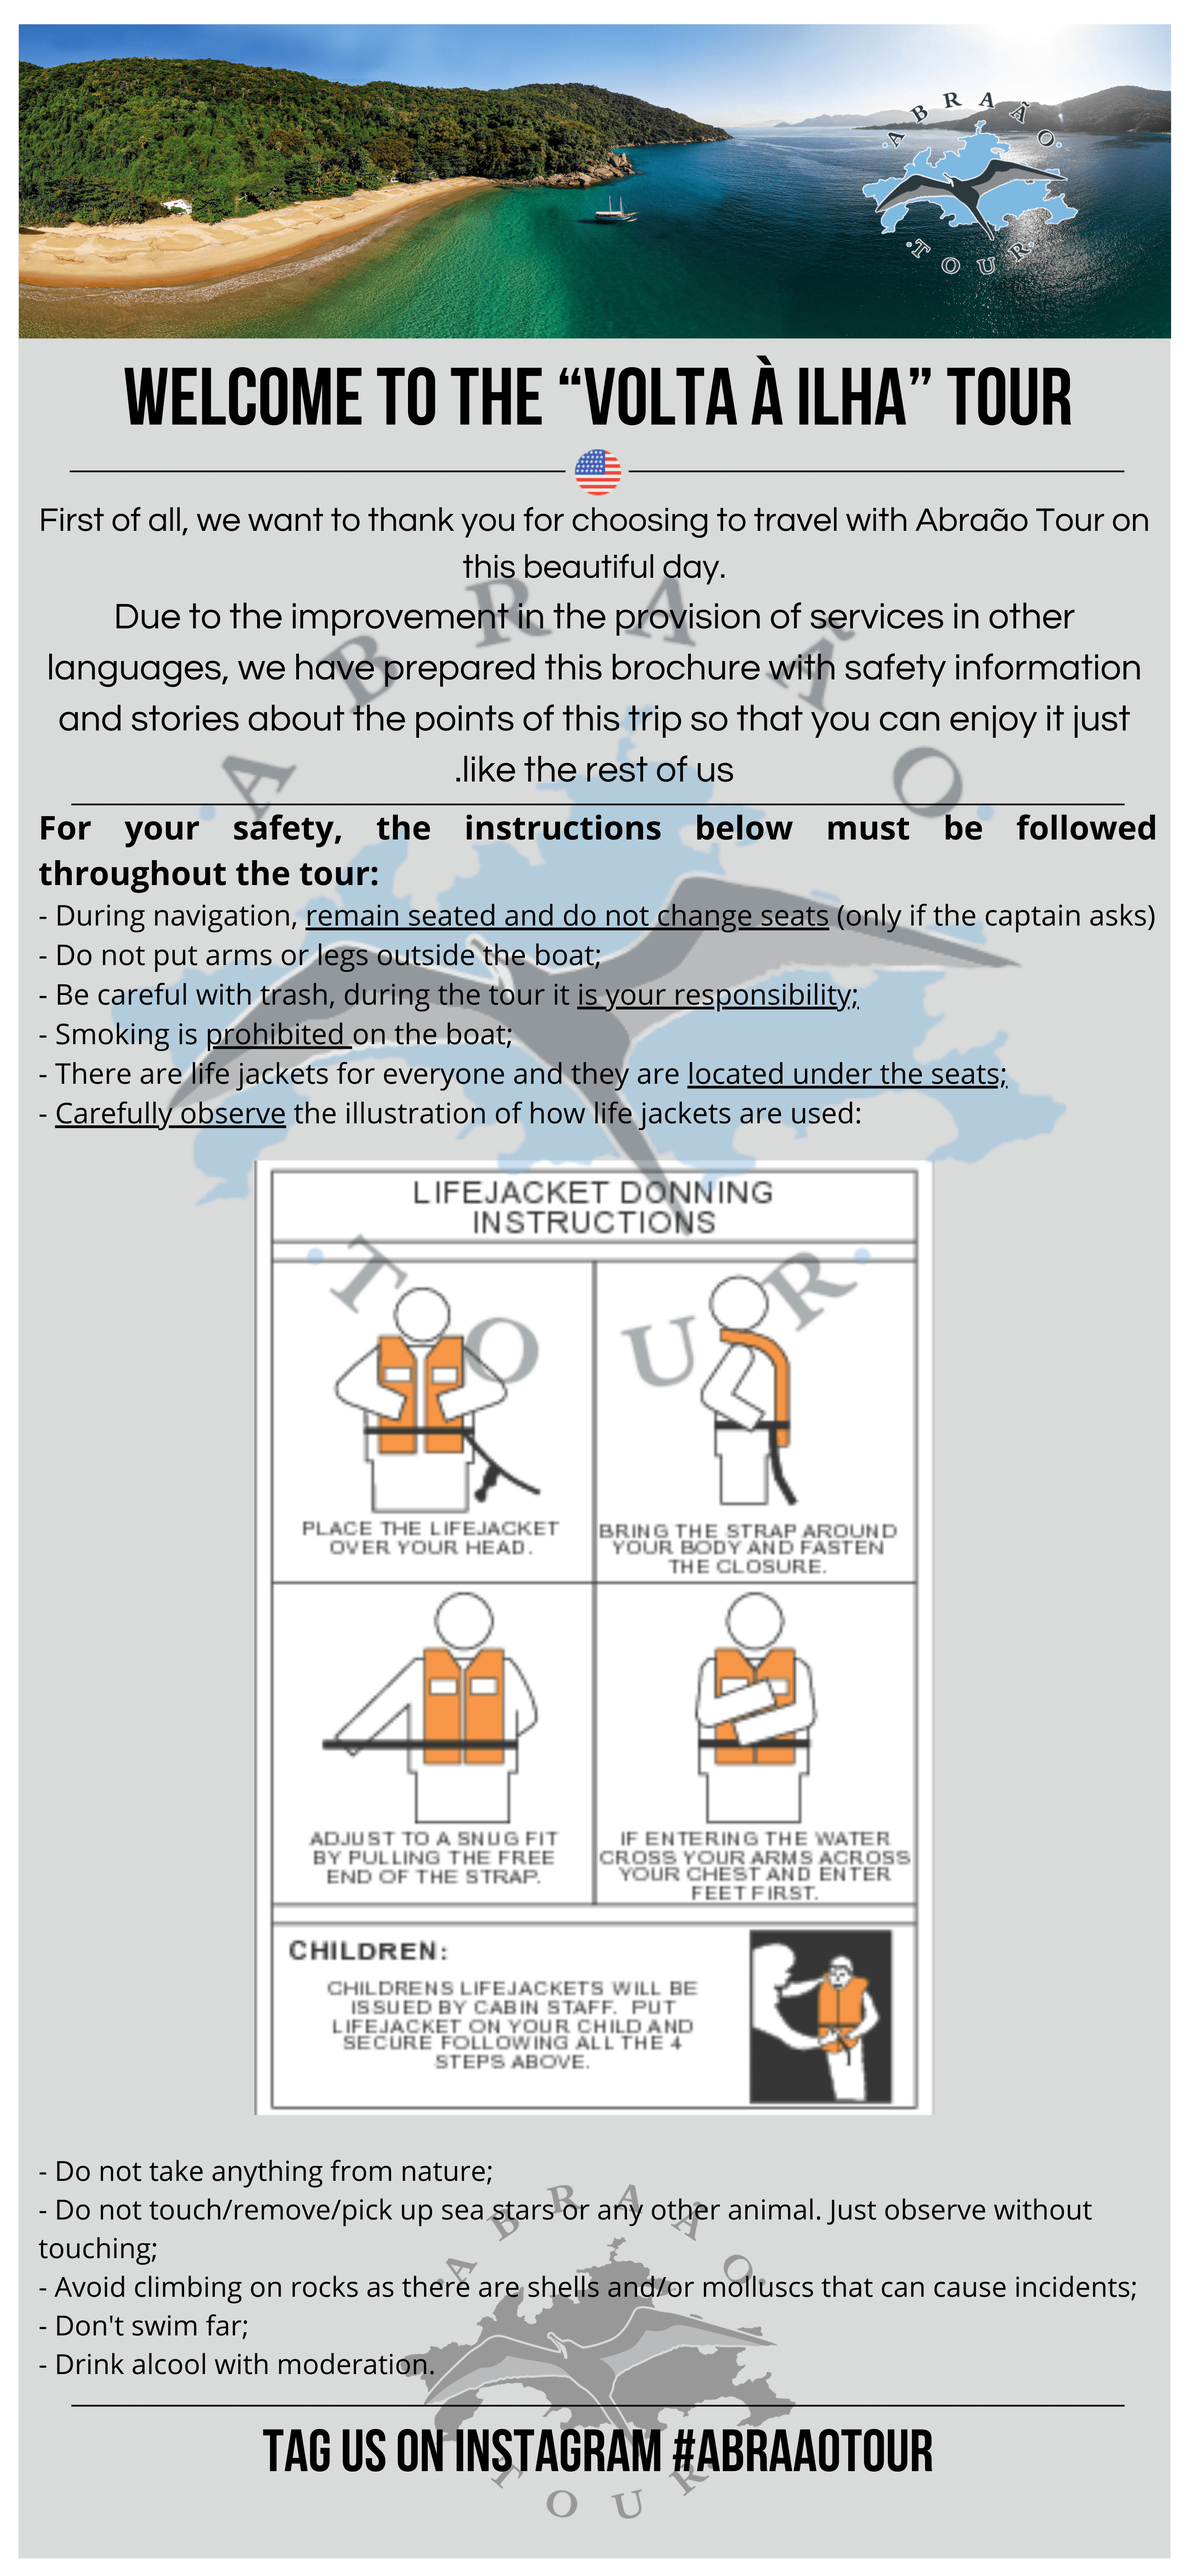
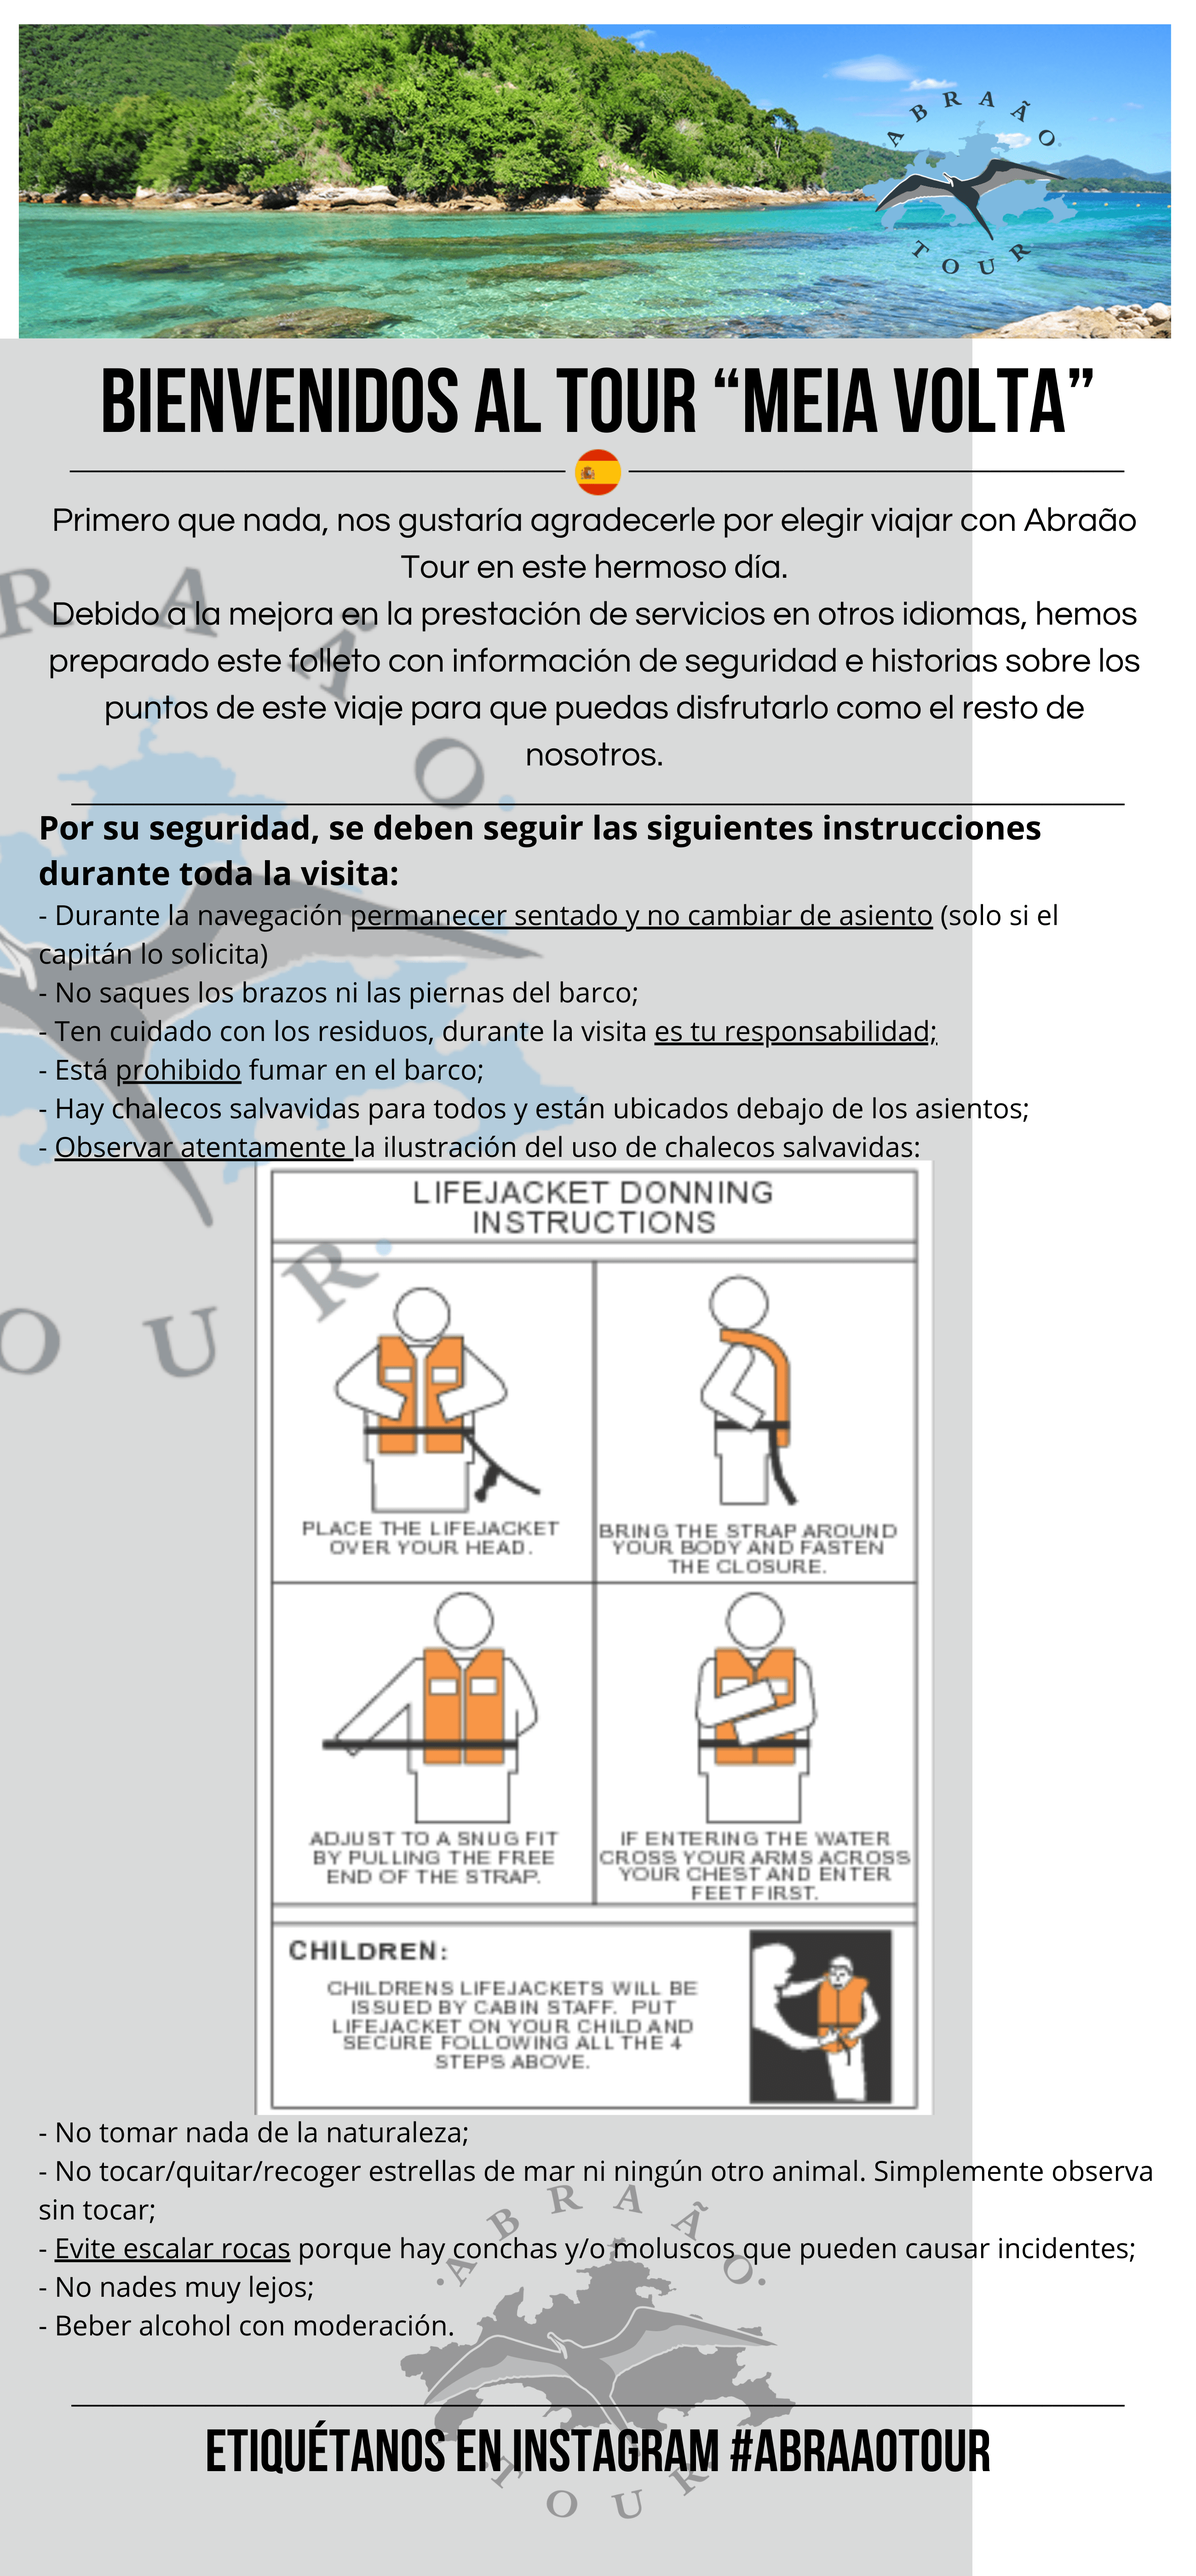
finished spanish pages

diff --git a/index.html b/index.html
@@ -8,35 +8,40 @@
   </head>
   <body>
     <header>
-      <h1>Itineraries in English.</h1>
+      <h1>Itinerários en Espanol.</h1>
     </header>
 
     <main>
       <section class="intro">
         <p>
-          <strong
-            >Below we have 3 itineraries with information in English</strong
-          >, click on the desired itinerary to open more information about it.
+          <strong>
+            A continuación tenemos 3 itinerarios con información en español
+          </strong>
+          , haga clic en el itinerario deseado para abrir más información al
+          respecto.
         </p>
       </section>
 
       <section class="itineraries">
         <div class="itinerary">
           <a href="./volta-a-ilha/index.html">
-            <img src="./img/volta_a_ilha_english.png" alt="Volta à Ilha Tour" />
+            <img
+              src="./img/volta_a_ilha_espanhol.png"
+              alt="Volta à Ilha Tour"
+            />
           </a>
         </div>
         <div class="itinerary">
           <a href="./ilhas-paradisíacas/index.html">
             <img
-              src="./img/ilhas_paradisiacas_english.png"
+              src="./img/ilhas_paradisiacas_espanhol.png"
               alt="Ilhas Paradisíacas Tour"
             />
           </a>
         </div>
         <div class="itinerary">
           <a href="./meia-volta/index.html">
-            <img src="./img/meia_volta_english.png" alt="Meia Volta Tour" />
+            <img src="./img/meia_volta_espanhol.png" alt="Meia Volta Tour" />
           </a>
         </div>
       </section>

diff --git a/ilhas-paradisíacas/index.html b/ilhas-paradisíacas/index.html
@@ -3,20 +3,20 @@
   <head>
     <meta charset="UTF-8" />
     <meta name="viewport" content="width=device-width, initial-scale=1.0" />
-    <title>Ilhas Paradisíacas in English</title>
+    <title>"Ilhas Paradisíacas" en Español</title>
     <link rel="stylesheet" href="./style.css" />
   </head>
   <body>
     <header>
-      <h1>Ilhas Paradisíacas in English.</h1>
+      <h1>"Ilhas Paradisíacas" en Español.</h1>
     </header>
 
     <main>
       <section class="intro">
         <p>
           <strong>
-            Below are images with descriptions of the “Ilhas Paradisíacas”
-            itinerary in English, click to see better.
+            A continuación se muestran imágenes con descripciones del itinerario
+            "Ilhas Paradisíacas" en Español, haga clic para ver mejor.
           </strong>
         </p>
       </section>

diff --git a/volta-a-ilha/index.html b/volta-a-ilha/index.html
@@ -3,20 +3,20 @@
   <head>
     <meta charset="UTF-8" />
     <meta name="viewport" content="width=device-width, initial-scale=1.0" />
-    <title>Volta a Ilha in English</title>
+    <title>"Volta à Ilha" en Español</title>
     <link rel="stylesheet" href="./style.css" />
   </head>
   <body>
     <header>
-      <h1>Volta a Ilha in English.</h1>
+      <h1>"Volta à Ilha" en Español.</h1>
     </header>
 
     <main>
       <section class="intro">
         <p>
           <strong>
-            Below are images with descriptions of the “Volta à Ilha” itinerary
-            in English, click to see better.
+            A continuación se muestran imágenes con descripciones del itinerario
+            "Volta à Ilha" en Español, haga clic para ver mejor.
           </strong>
         </p>
       </section>

diff --git a/meia-volta/index.html b/meia-volta/index.html
@@ -3,20 +3,20 @@
   <head>
     <meta charset="UTF-8" />
     <meta name="viewport" content="width=device-width, initial-scale=1.0" />
-    <title>Meia Volta in English</title>
+    <title>"Meia Volta" en Español.</title>
     <link rel="stylesheet" href="./style.css" />
   </head>
   <body>
     <header>
-      <h1>Meia Volta in English.</h1>
+      <h1>"Meia Volta" en Español..</h1>
     </header>
 
     <main>
       <section class="intro">
         <p>
           <strong>
-            Below are images with descriptions of the “Meia Volta” itinerary in
-            English, click to see better.
+            A continuación se muestran imágenes con descripciones del itinerario
+            "Ilhas Paradisíacas" en Español, haga clic para ver mejor.
           </strong>
         </p>
       </section>
